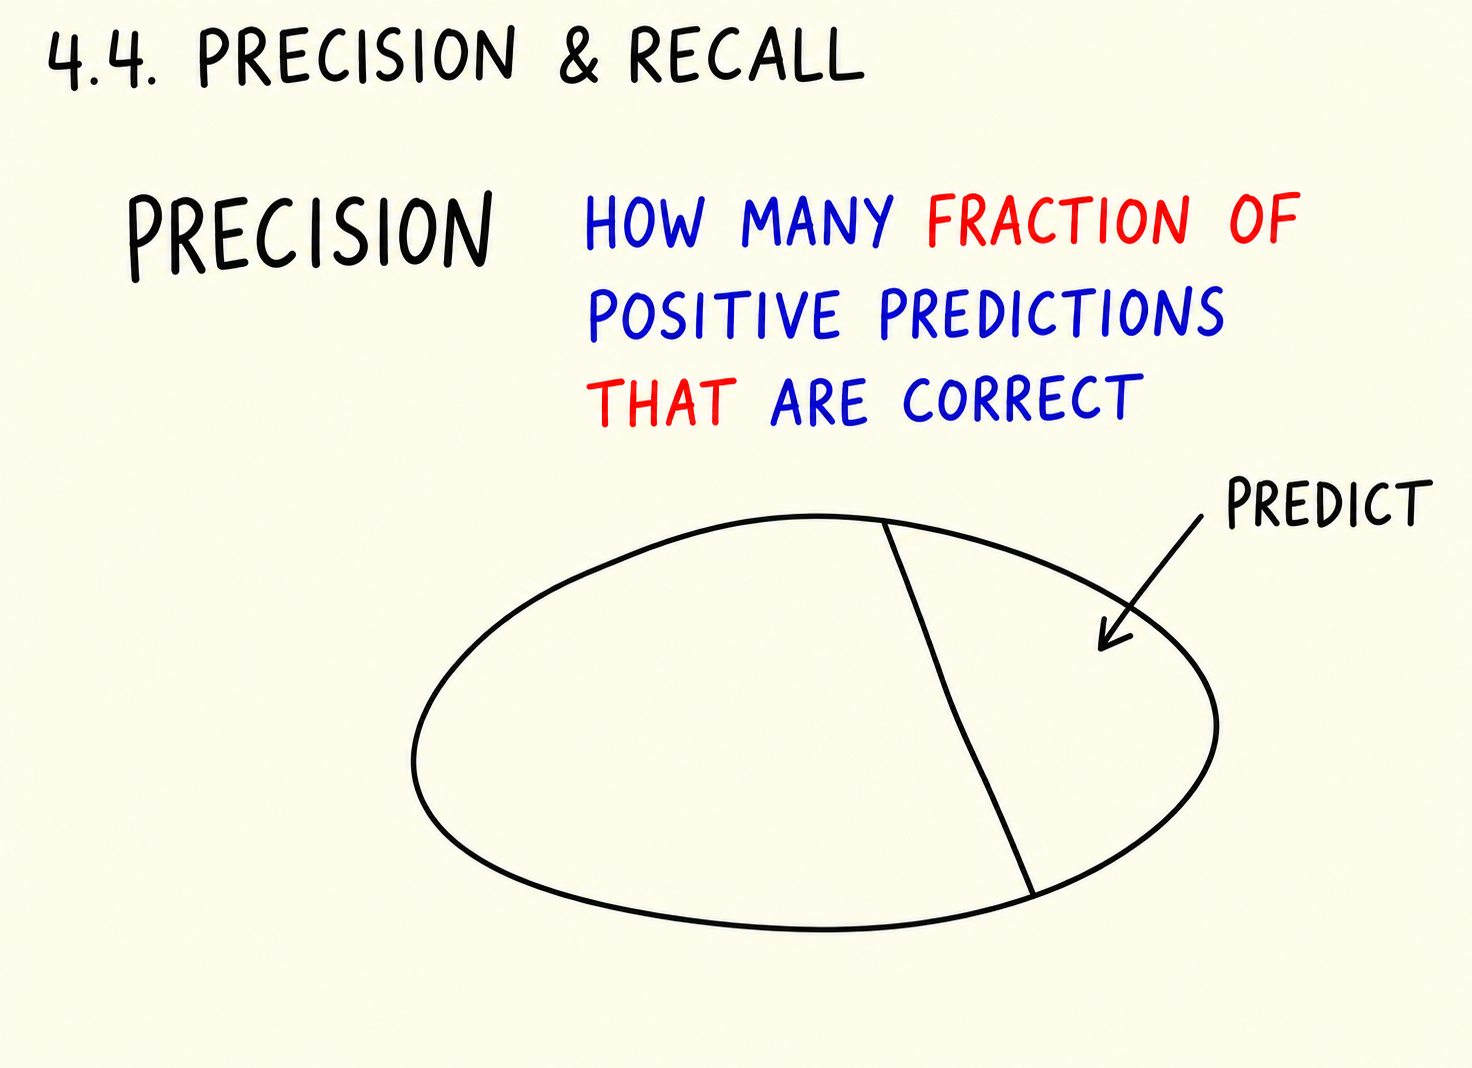
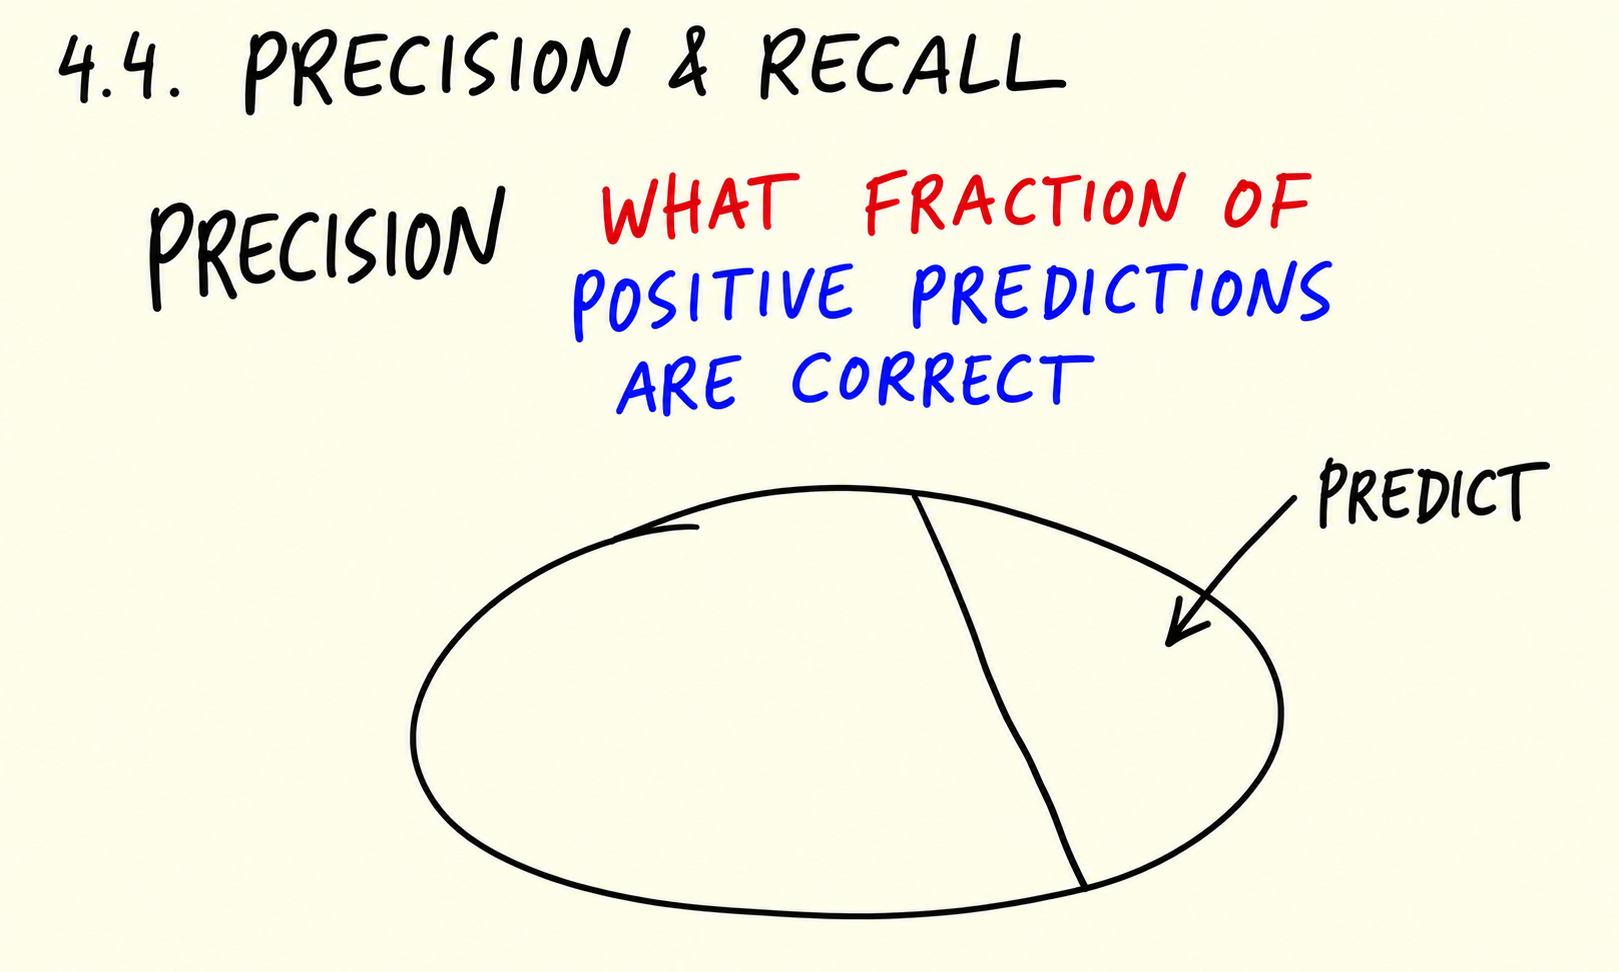
Repair precision definition illustration

diff --git a/cohorts/2026/04-evaluation/images/2026-09-09-precision-recall-repair-provenance.md b/cohorts/2026/04-evaluation/images/2026-09-09-precision-recall-repair-provenance.md
@@ -1,0 +1,31 @@
+# Precision and recall illustration repair evidence
+
+Date: 2026-09-09
+
+This record covers only the two repaired illustrations in `04-precision-recall.md`.
+The source JPGs remain unchanged. Each output was generated from the original JPG
+and a bounded crop that excluded the camera inset, screen borders, and recording
+controls. The final PNGs were inspected at native resolution and in simulated
+608px-wide renders.
+
+## Precision definition
+
+Target: `04-precision-recall-01-precision-definition-crisp.png`
+
+The previous redraw had the defective wording “HOW MANY FRACTION OF ... THAT ARE
+CORRECT”. The repaired redraw uses the exact sentence “WHAT FRACTION OF POSITIVE
+PREDICTIONS ARE CORRECT”, while preserving the source's precision oval and
+predicted-positive partition.
+
+| Artifact | SHA-256 |
+|---|---|
[3 lines of base64/hex data omitted]
+
+Validation:
+
+- Final dimensions: `1619×972`; simulated 608px render: `608×365`.
+- The final PNG carries C2PA metadata identifying `gpt-image`.
+- No camera, cursor, playback controls, borders, watermark, or extra text remain.
+- The generated text was checked visually against the required wording.
